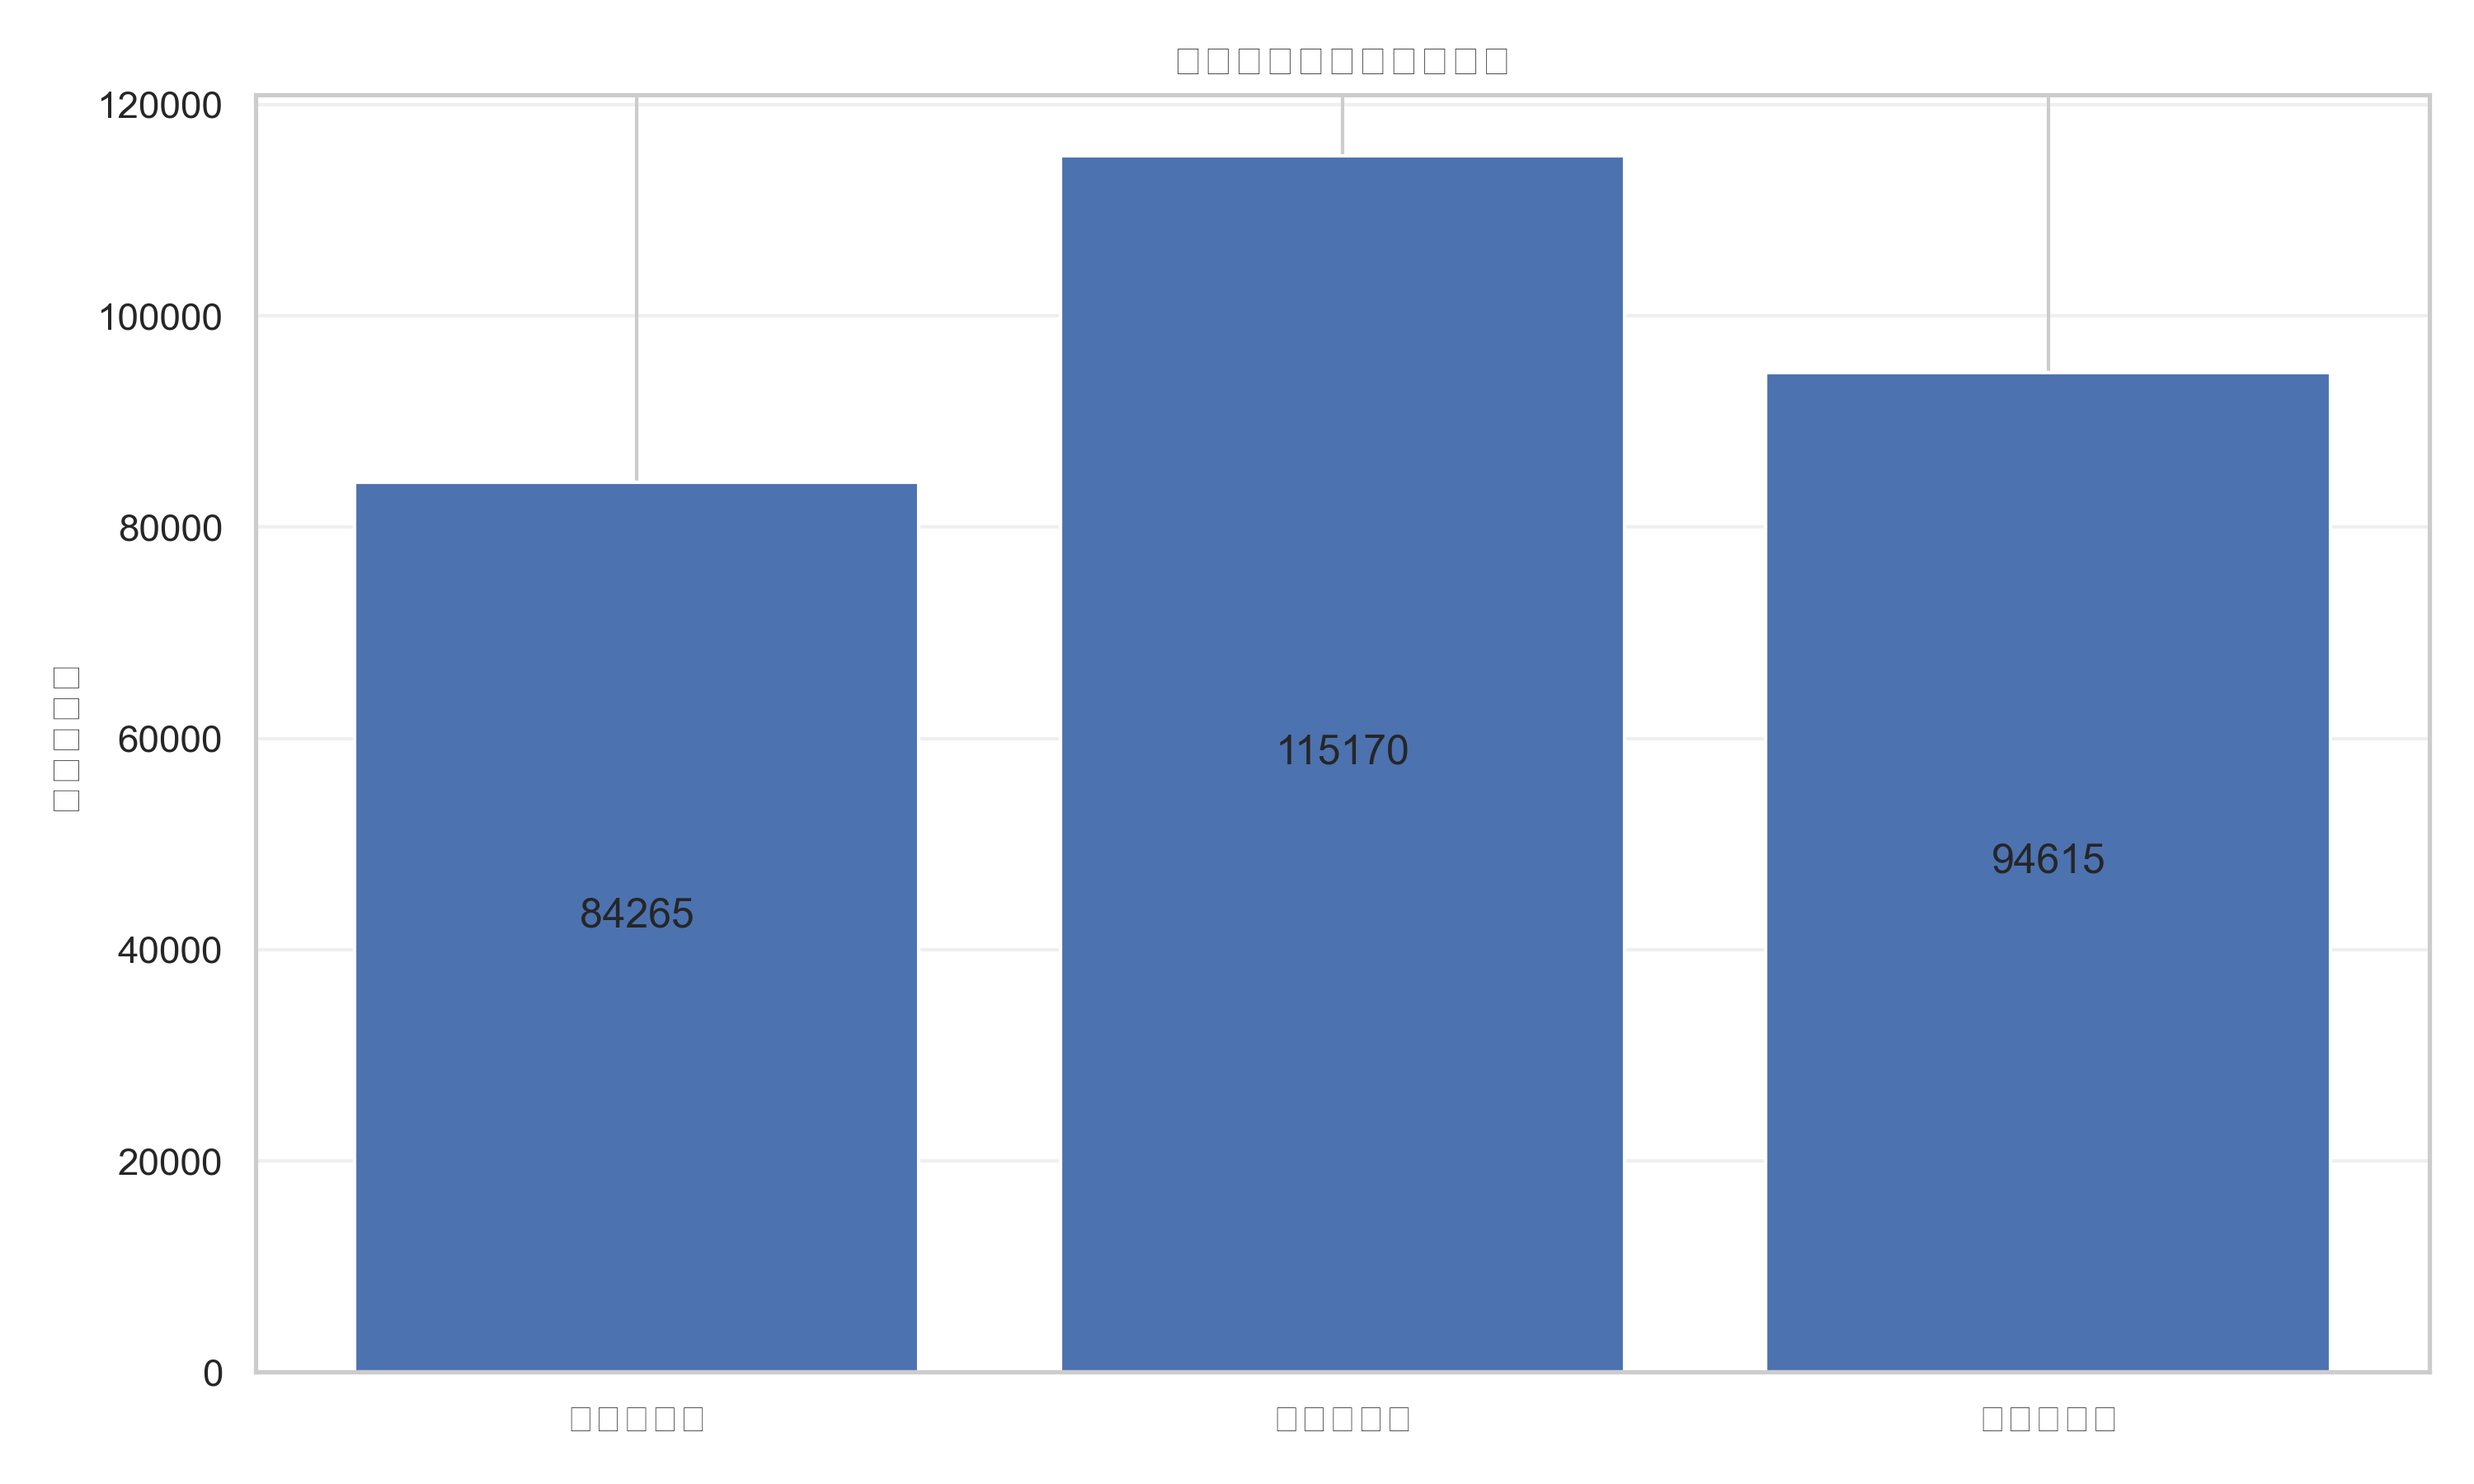
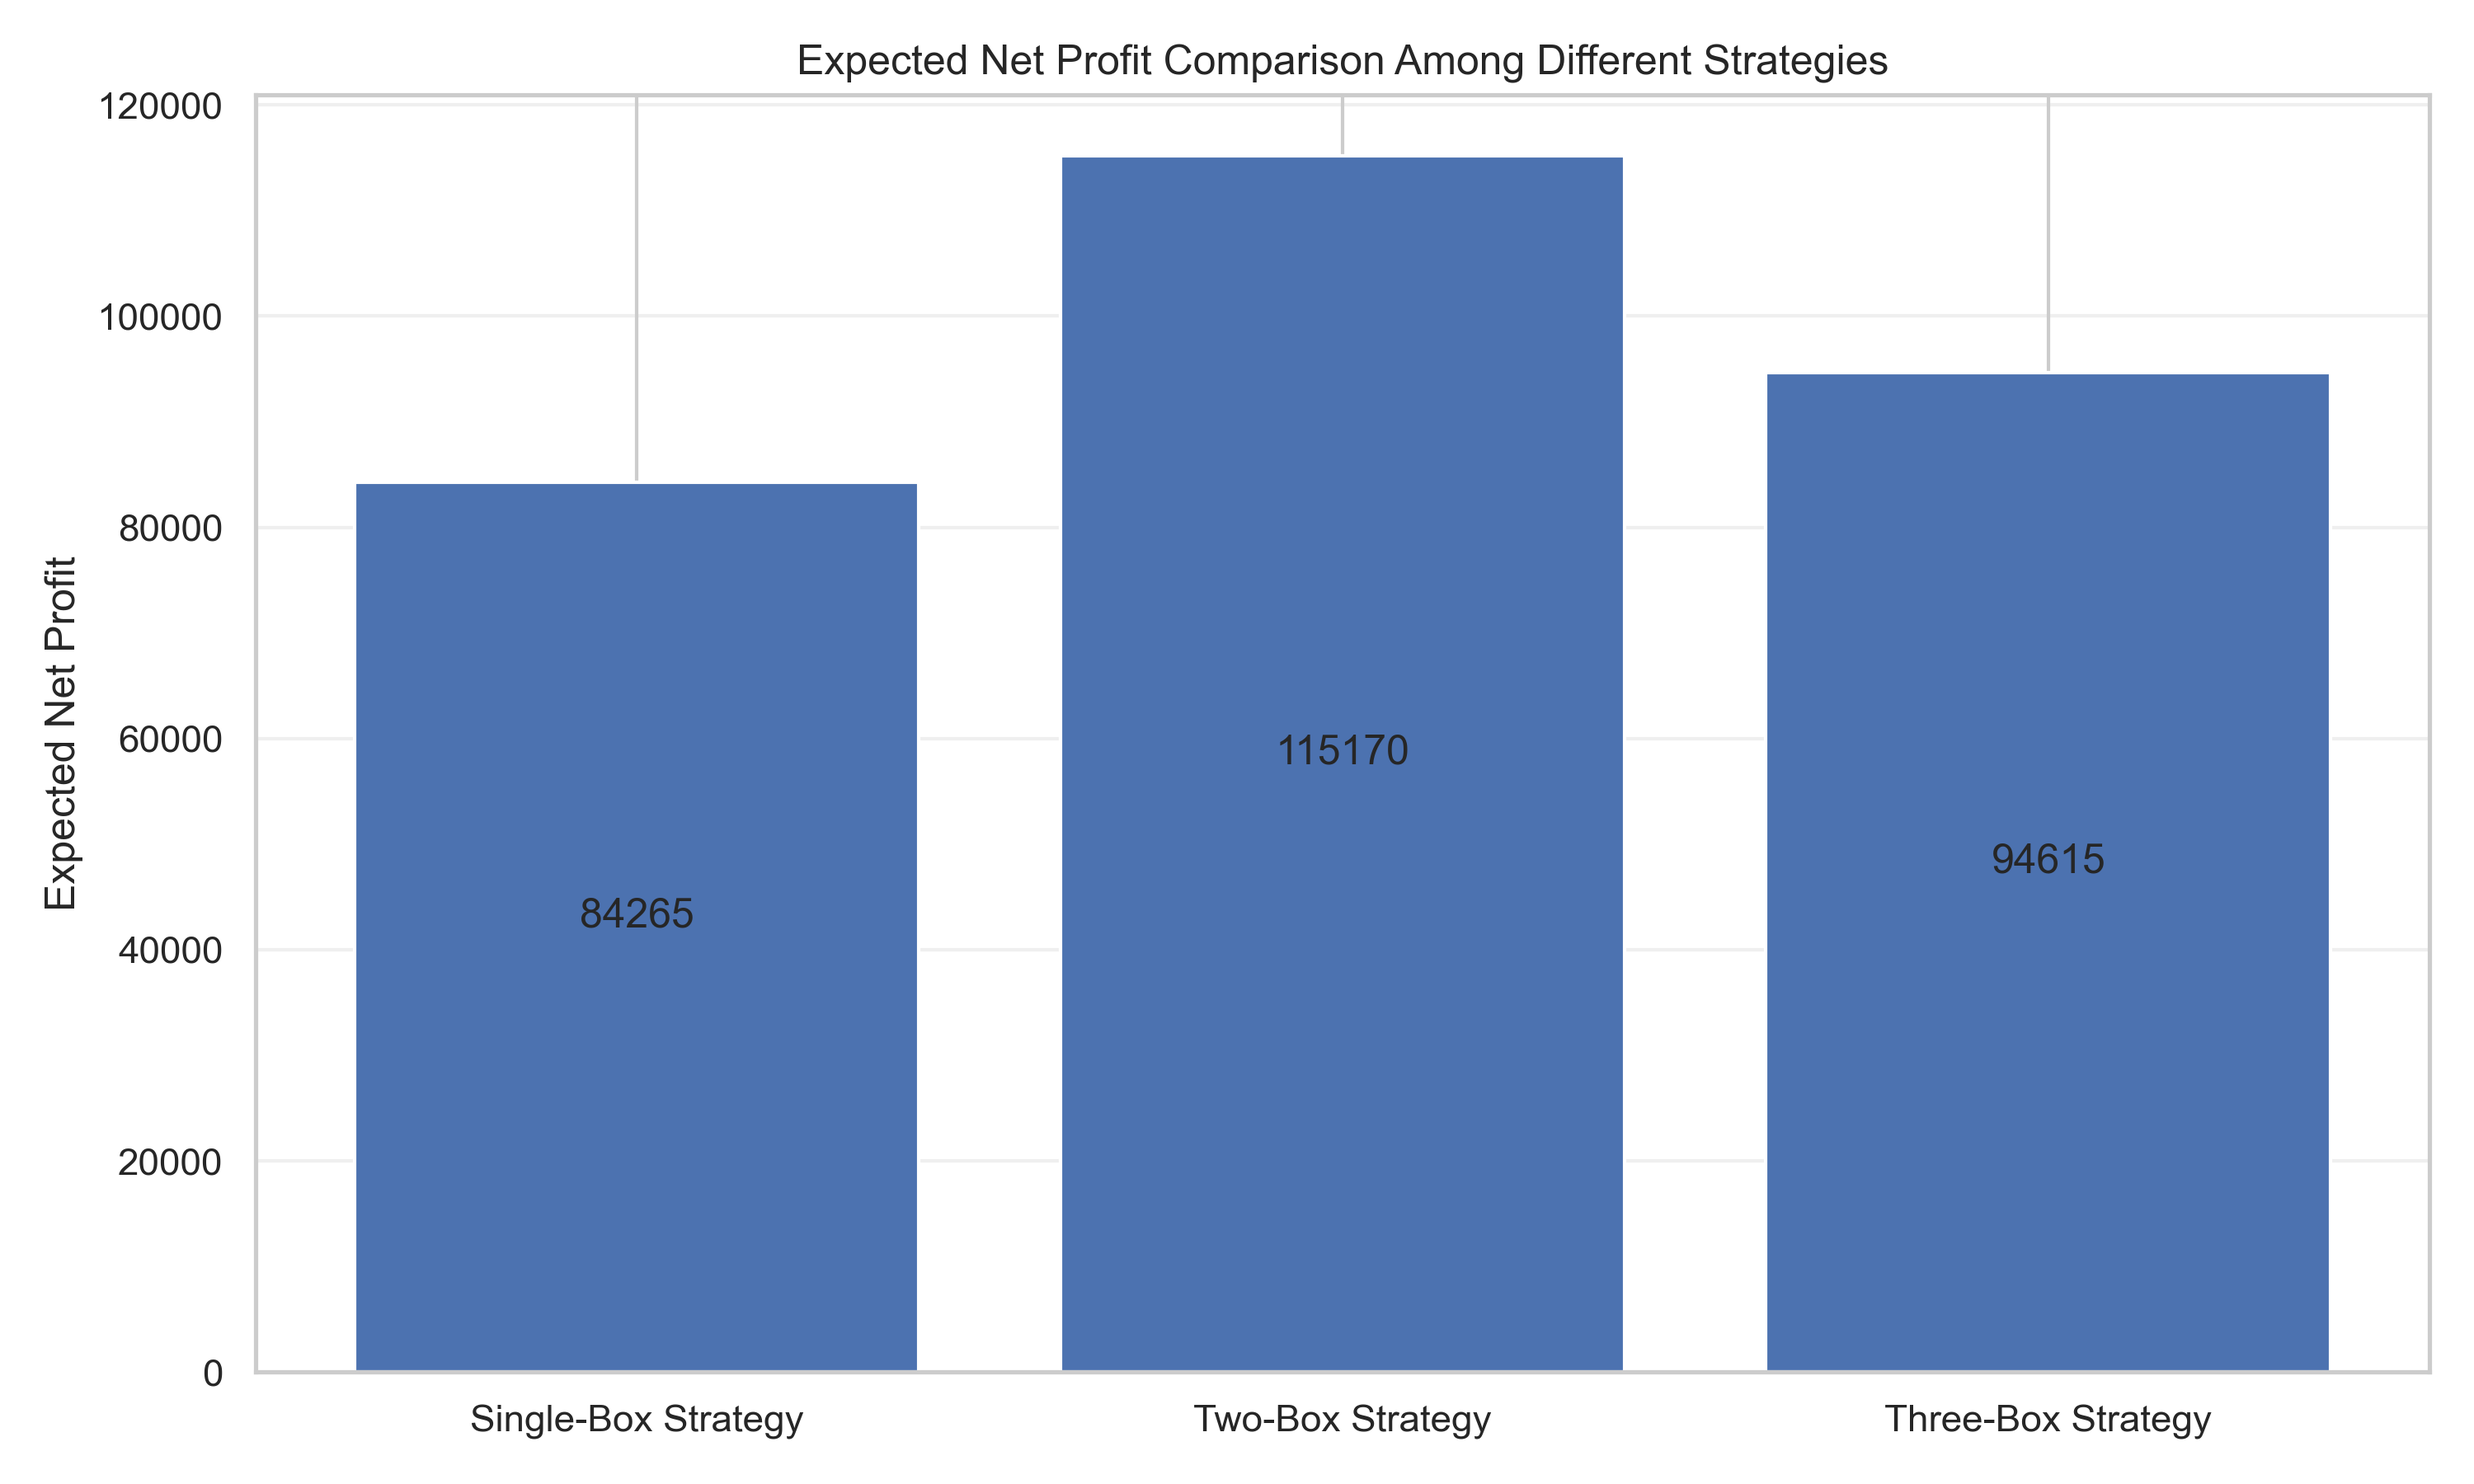
Reverted chart labels back to English

diff --git a/advanced_treasure_analysis.py b/advanced_treasure_analysis.py
@@ -220,7 +220,7 @@ def run_advanced_analysis(output_dir: str,
     cognitive_distribution = cognitive_results["overall_distribution"]
     analyzer.visualizer.plot_strategy_distribution(
         cognitive_distribution, 
-        title="认知层次模型分布", 
+        title="Cognitive Hierarchy Model Strategy Distribution", 
         strategy_names=treasure_names
     ).savefig(os.path.join(output_dir, "cognitive_distribution.png"), dpi=300)
     
@@ -228,7 +228,7 @@ def run_advanced_analysis(output_dir: str,
     behavioral_weights = behavioral_results["final_weights"]
     analyzer.visualizer.plot_strategy_distribution(
         behavioral_weights,
-        title="行为经济学模型权重",
+        title="Behavioral Economics Model Strategy Weights",
         strategy_names=treasure_names
     ).savefig(os.path.join(output_dir, "behavioral_weights.png"), dpi=300)
     
@@ -236,45 +236,44 @@ def run_advanced_analysis(output_dir: str,
     social_distribution = social_results["final_distribution"]
     analyzer.visualizer.plot_strategy_distribution(
         social_distribution,
-        title="社会动态模型最终分布",
+        title="Social Dynamics Model Final Distribution",
         strategy_names=treasure_names
     ).savefig(os.path.join(output_dir, "social_distribution.png"), dpi=300)
     
-    # 4. Create payoff matrix heatmap
-    plt.figure(figsize=(10, 8))
-    ax = sns.heatmap(analyzer.payoff_matrix, 
-                    annot=False,  # 移除数值标注，使图表更清晰
-                    cmap="YlGnBu", 
-                    xticklabels=treasure_names,
-                    yticklabels=treasure_names)
-    plt.title("收益矩阵热图", fontsize=14)
-    plt.xlabel("其他玩家策略", fontsize=12)
-    plt.ylabel("我的策略", fontsize=12)
-    # 减小刻度标签大小，提高可读性
-    plt.xticks(fontsize=8, rotation=45)
-    plt.yticks(fontsize=8, rotation=0)
-    plt.tight_layout()
-    plt.savefig(os.path.join(output_dir, "payoff_matrix.png"), dpi=300)
-    plt.close()
+    # 4. Create social dynamics evolution plot
+    plt.figure(figsize=(14, 7))
+    evolution_data = social_results["evolution_data"]
     
-    # 5. Create social dynamics evolution graph
-    # Prepare social dynamics evolution data
-    evolution_data = np.array(social_results["evolution_data"])
-    plt.figure(figsize=(12, 8))
+    # Transpose for plotting
+    evolution_matrix = np.array([dist for dist in evolution_data]).T
+    
     for i in range(len(treasures)):
-        plt.plot(range(len(evolution_data)), evolution_data[:, i], 
-                 label=f"{treasures[i].id}")  # 移除"Box"前缀
-    plt.xlabel("迭代次数")
-    plt.ylabel("选择概率")
-    plt.title("社会动态演化过程")
-    plt.legend(fontsize=8, ncol=4)  # 使用更紧凑的图例布局
+        plt.plot(range(len(evolution_data)), evolution_matrix[i], label=f"{treasures[i].id}")
+    
+    plt.xlabel("Iteration")
+    plt.ylabel("Strategy Selection Probability")
+    plt.title("Social Dynamics Strategy Evolution")
     plt.grid(True, alpha=0.3)
+    plt.legend(bbox_to_anchor=(1.05, 1), loc='upper left')
     plt.tight_layout()
     plt.savefig(os.path.join(output_dir, "social_dynamics_evolution.png"), dpi=300)
     plt.close()
     
+    # 5. Create payoff matrix heatmap
+    plt.figure(figsize=(12, 10))
+    sns.heatmap(analyzer.payoff_matrix, annot=False, fmt=".0f", 
+              xticklabels=[t.id for t in treasures],
+              yticklabels=[t.id for t in treasures], 
+              cmap="YlOrRd")
+    plt.xlabel("Other Players' Strategy")
+    plt.ylabel("My Strategy")
+    plt.title("Payoff Matrix Heatmap")
+    plt.tight_layout()
+    plt.savefig(os.path.join(output_dir, "payoff_matrix.png"), dpi=300)
+    plt.close()
+    
     # 6. Create integrated results visualization - Best strategy comparison among models
-    model_names = ["认知层次", "行为经济学", "社会动态", "元策略"]
+    model_names = ["Cognitive Hierarchy", "Behavioral Economics", "Social Dynamics", "Meta-Strategy"]
     best_strategies = [
         cognitive_results["best_strategy"],
         behavioral_results["best_strategy"],
@@ -288,8 +287,8 @@ def run_advanced_analysis(output_dir: str,
         plt.text(i, 0.2, f"{treasures[strategy].id}", ha='center')
     
     plt.xticks(range(len(model_names)), model_names, rotation=45)
-    plt.ylabel("基础效用")
-    plt.title("各模型最佳策略比较")
+    plt.ylabel("Base Utility")
+    plt.title("Best Strategy Comparison Among Models")
     plt.grid(True, alpha=0.3, axis='y')
     plt.tight_layout()
     plt.savefig(os.path.join(output_dir, "model_comparison.png"), dpi=300)
@@ -297,7 +296,7 @@ def run_advanced_analysis(output_dir: str,
     
     # 7. Create expected profit comparison graph
     plt.figure(figsize=(10, 6))
-    strategies = ["单宝箱策略", "双宝箱策略", "三宝箱策略"]
+    strategies = ["Single-Box Strategy", "Two-Box Strategy", "Three-Box Strategy"]
     profits = [
         integrated_results["best_single_profit"],
         integrated_results["best_pair_profit"],
@@ -306,8 +305,8 @@ def run_advanced_analysis(output_dir: str,
     plt.bar(strategies, profits)
     for i, p in enumerate(profits):
         plt.text(i, p/2, f"{p:.0f}", ha='center', fontsize=12)
-    plt.ylabel("预期净收益")
-    plt.title("不同策略预期净收益比较")
+    plt.ylabel("Expected Net Profit")
+    plt.title("Expected Net Profit Comparison Among Different Strategies")
     plt.grid(True, alpha=0.3, axis='y')
     plt.tight_layout()
     plt.savefig(os.path.join(output_dir, "strategy_profit_comparison.png"), dpi=300)
@@ -319,8 +318,8 @@ def run_advanced_analysis(output_dir: str,
     plt.figure(figsize=(12, 6))
     plt.bar(strategy_names, [estimated_selection.get(name, 0) for name in strategy_names])
     plt.xticks(rotation=45)
-    plt.ylabel("预估选择百分比")
-    plt.title("宝箱预估选择分布")
+    plt.ylabel("Estimated Selection Percentage")
+    plt.title("Treasure Estimated Selection Distribution")
     plt.grid(True, alpha=0.3, axis='y')
     plt.tight_layout()
     plt.savefig(os.path.join(output_dir, "estimated_selection.png"), dpi=300)

diff --git a/comprehensive_project_summary.md b/comprehensive_project_summary.md
@@ -139,7 +139,7 @@ def _create_payoff_matrix(self) -> np.ndarray:
 
 收益矩阵的热图可视化如下所示（横轴为对手策略，纵轴为自己策略）：
 
-![收益矩阵热图](output/advanced_analysis/payoff_matrix.png)
+![Payoff Matrix Heatmap](output/advanced_analysis/payoff_matrix.png)
 
 这个热图直观地展示了不同策略组合的收益结构，对角线上的元素（相同选择）收益通常较低，表明当多玩家选择相同宝箱时会分散收益。
 
@@ -176,7 +176,7 @@ def analyze_with_cognitive_hierarchy(self) -> Dict[str, Any]:
 
 通过认知层次分析生成的策略分布如下：
 
-![认知层次模型分布](output/advanced_analysis/cognitive_distribution.png)
+![Cognitive Hierarchy Model Strategy Distribution](output/advanced_analysis/cognitive_distribution.png)
 
 ### 2. 行为经济学分析
 
@@ -200,7 +200,7 @@ def analyze_with_behavioral_economics(self) -> Dict[str, Any]:
 
 行为经济学分析产生的权重分布如下：
 
-![行为经济学模型权重](output/advanced_analysis/behavioral_weights.png)
+![Behavioral Economics Model Strategy Weights](output/advanced_analysis/behavioral_weights.png)
 
 ### 3. 社会动态分析
 
@@ -230,11 +230,11 @@ def analyze_with_social_dynamics(self, num_iterations=30) -> Dict[str, Any]:
 
 社会动态模型的策略分布演化如下：
 
-![社会动态演化过程](output/advanced_analysis/social_dynamics_evolution.png)
+![Social Dynamics Strategy Evolution](output/advanced_analysis/social_dynamics_evolution.png)
 
 最终的社会动态策略分布：
 
-![社会动态模型最终分布](output/advanced_analysis/social_distribution.png)
+![Social Dynamics Model Final Distribution](output/advanced_analysis/social_distribution.png)
 
 ### 4. 元策略分析
 
@@ -260,7 +260,7 @@ def analyze_with_meta_strategy(self) -> Dict[str, Any]:
 
 各模型的最佳策略比较：
 
-![各模型最佳策略比较](output/advanced_analysis/model_comparison.png)
+![Best Strategy Comparison Among Models](output/advanced_analysis/model_comparison.png)
 
 ## 四、结果与建议
 
@@ -274,7 +274,7 @@ def analyze_with_meta_strategy(self) -> Dict[str, Any]:
 
 不同策略类型的预期收益比较：
 
-![不同策略预期净收益比较](output/advanced_analysis/strategy_profit_comparison.png)
+![Expected Net Profit Comparison Among Different Strategies](output/advanced_analysis/strategy_profit_comparison.png)
 
 ## 五、应用与实际价值
 

diff --git a/output/advanced_analysis/advanced_strategy_report.md b/output/advanced_analysis/advanced_strategy_report.md
@@ -31,7 +31,7 @@
 ### 模型一致性
 - 认知层次模型: 宝箱C3
 - 行为经济学模型: 宝箱C3
-- 社会动态模型: 宝箱D2
+- 社会动态模型: 宝箱B4
 - 元策略模型: 宝箱C3
 
 模型一致性评估: 部分一致 (75%)
